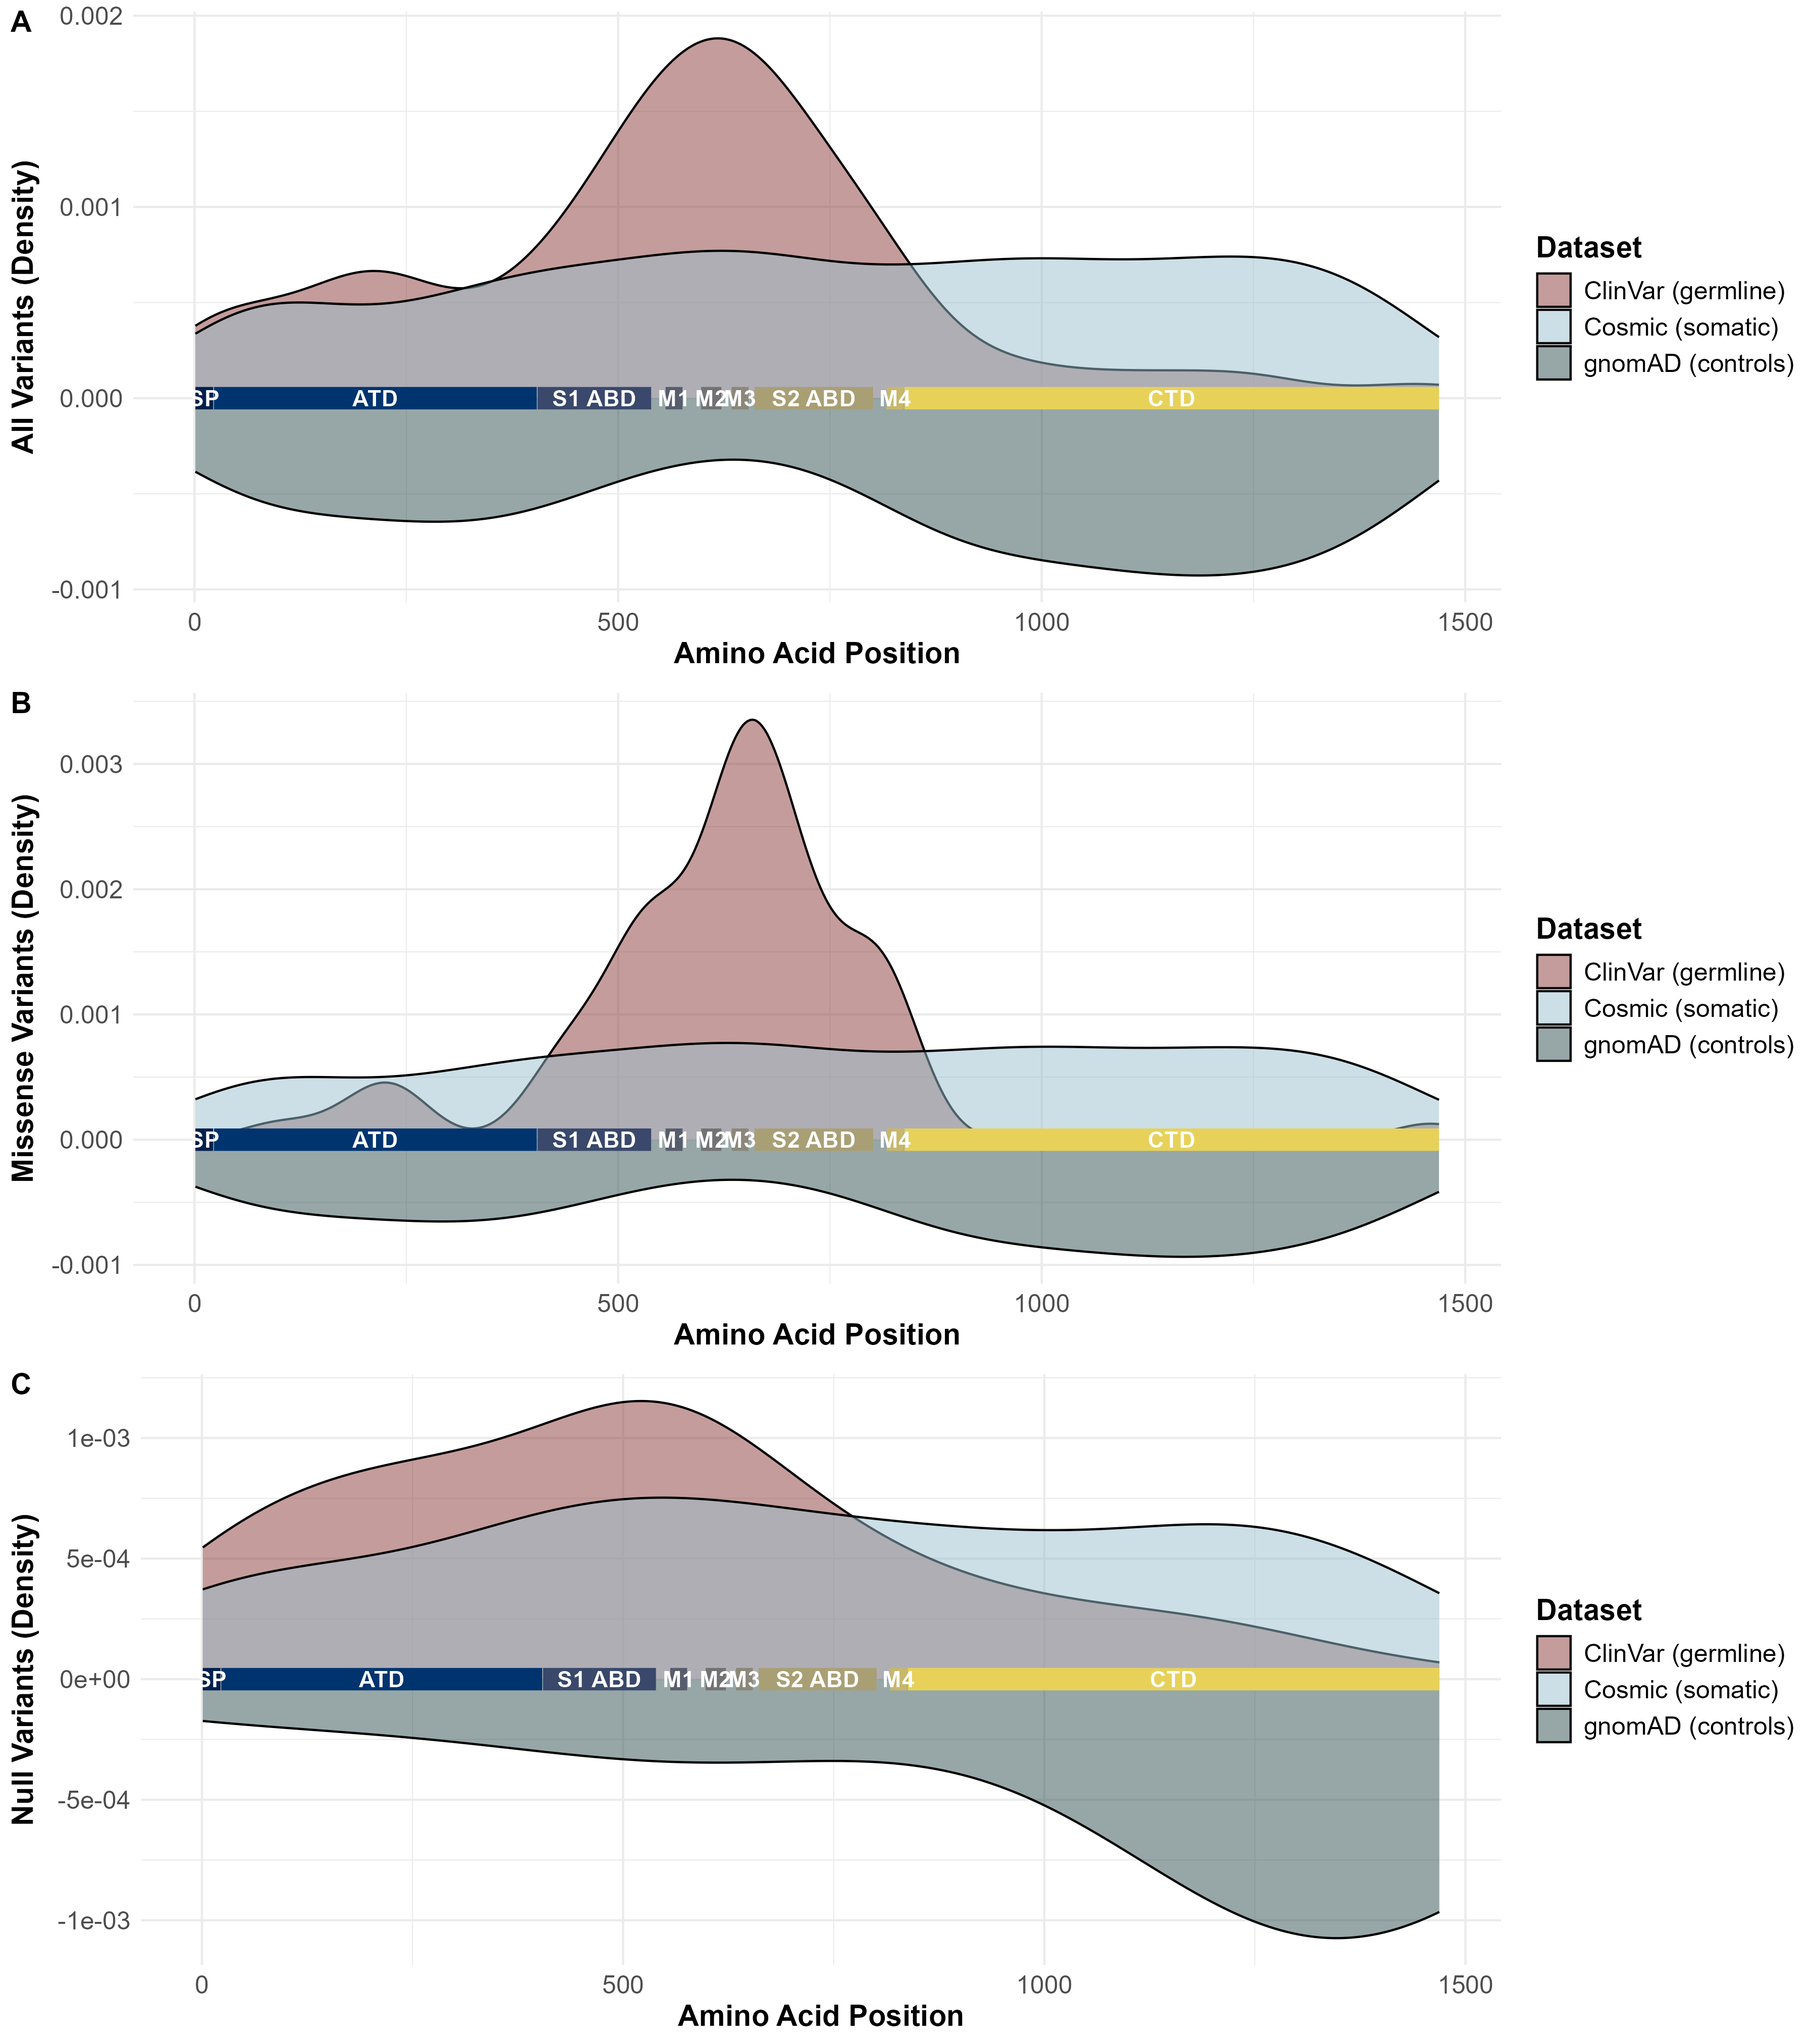
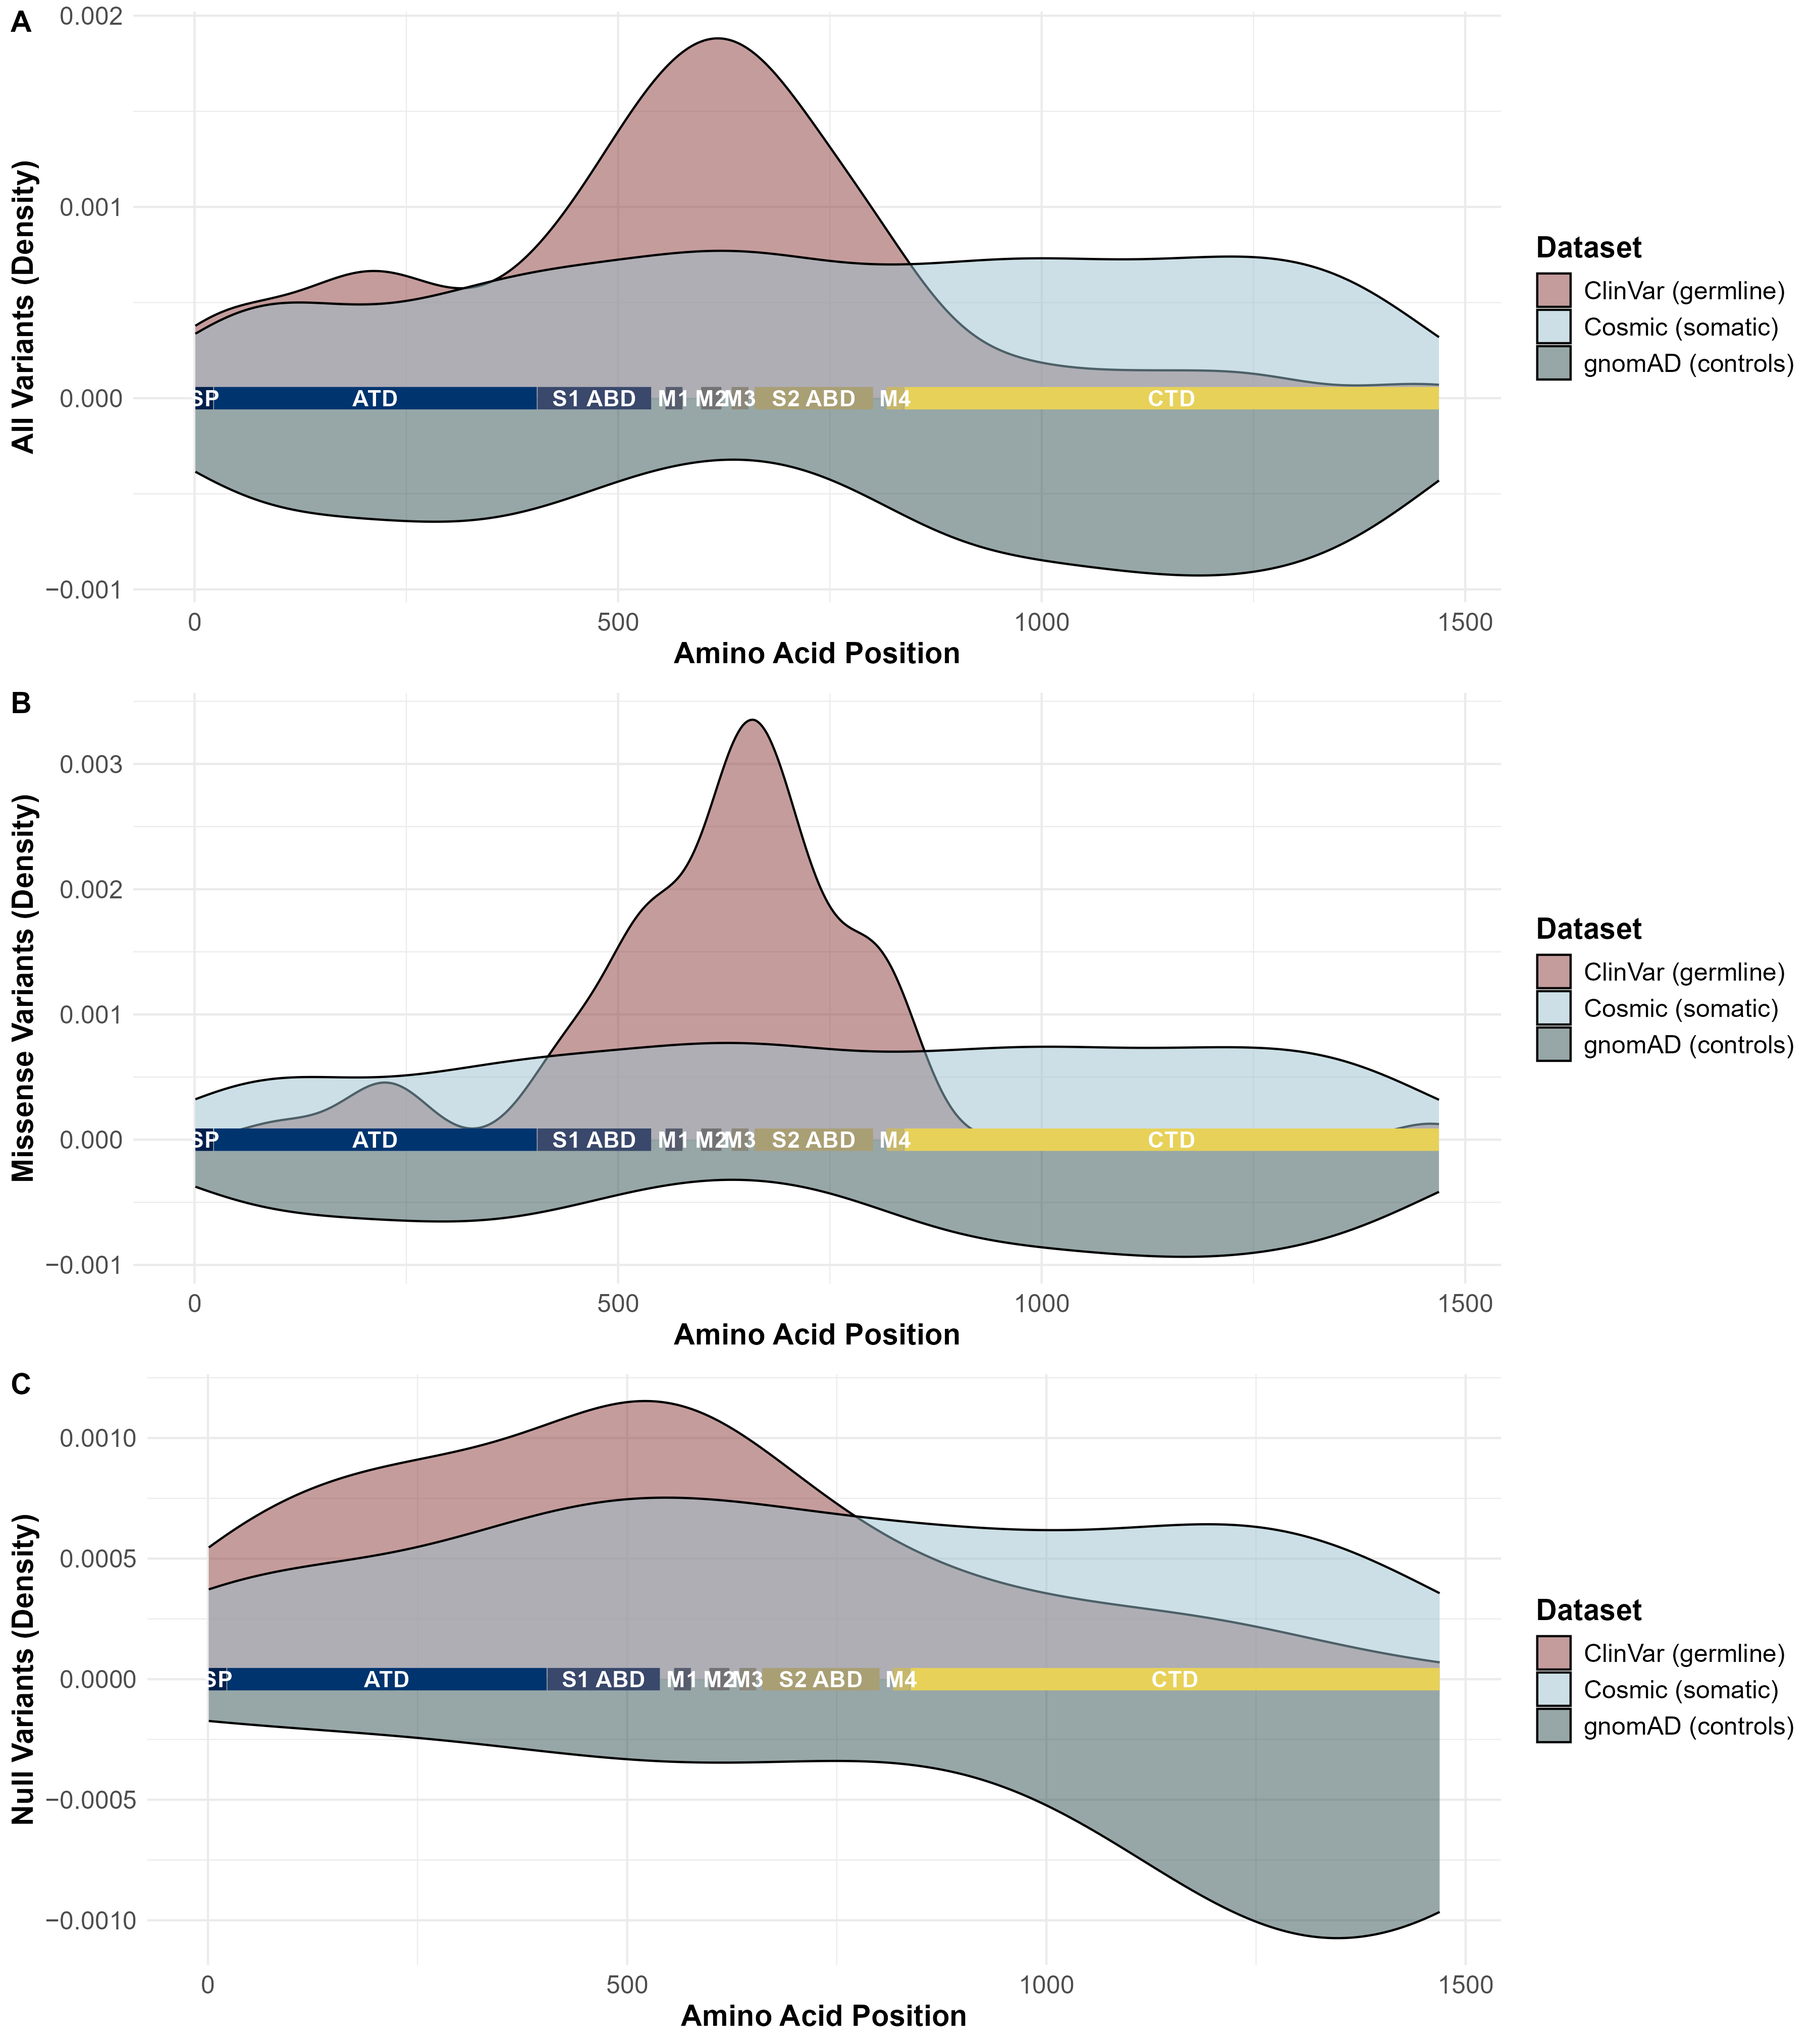
Updated plot legend

diff --git a/Readme.md b/Readme.md
@@ -53,6 +53,7 @@ library(ggplot2)
 library(ggvenn)
 library(cowplot)
 library(tibble)
+library(scales)
 ```
 
 ## Read and prepare cosmic, gnomAD and clinVar
@@ -237,6 +238,7 @@ plot_variant_density = function(input_df, label_prefix = ""){
   labs(fill = "Dataset", y = paste(label_prefix, "Variants (Density)"), x = "Amino Acid Position") +
   scale_fill_manual(values = c("indianred4", "lightblue3", "darkslategrey")) + 
   scale_color_viridis_d(option = "E", end = 0.9) +
+  scale_y_continuous(labels = scales::label_number(style_negative = "minus")) + 
   guides(fill = guide_legend(override.aes = list(alpha = 0.5))) + 
   theme_minimal() + 
   theme(plot.background = element_rect(fill = "white", colour = "white"), 
